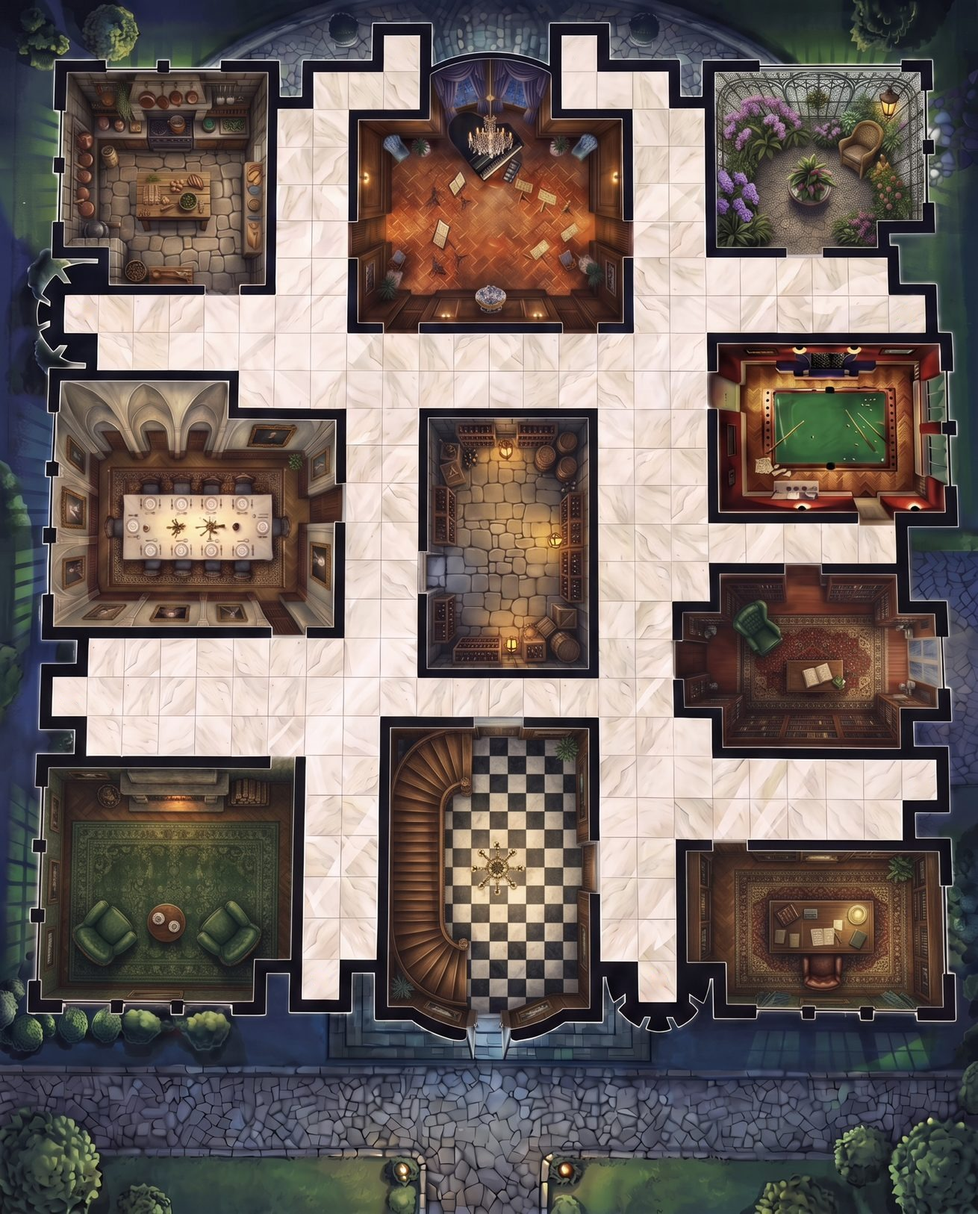
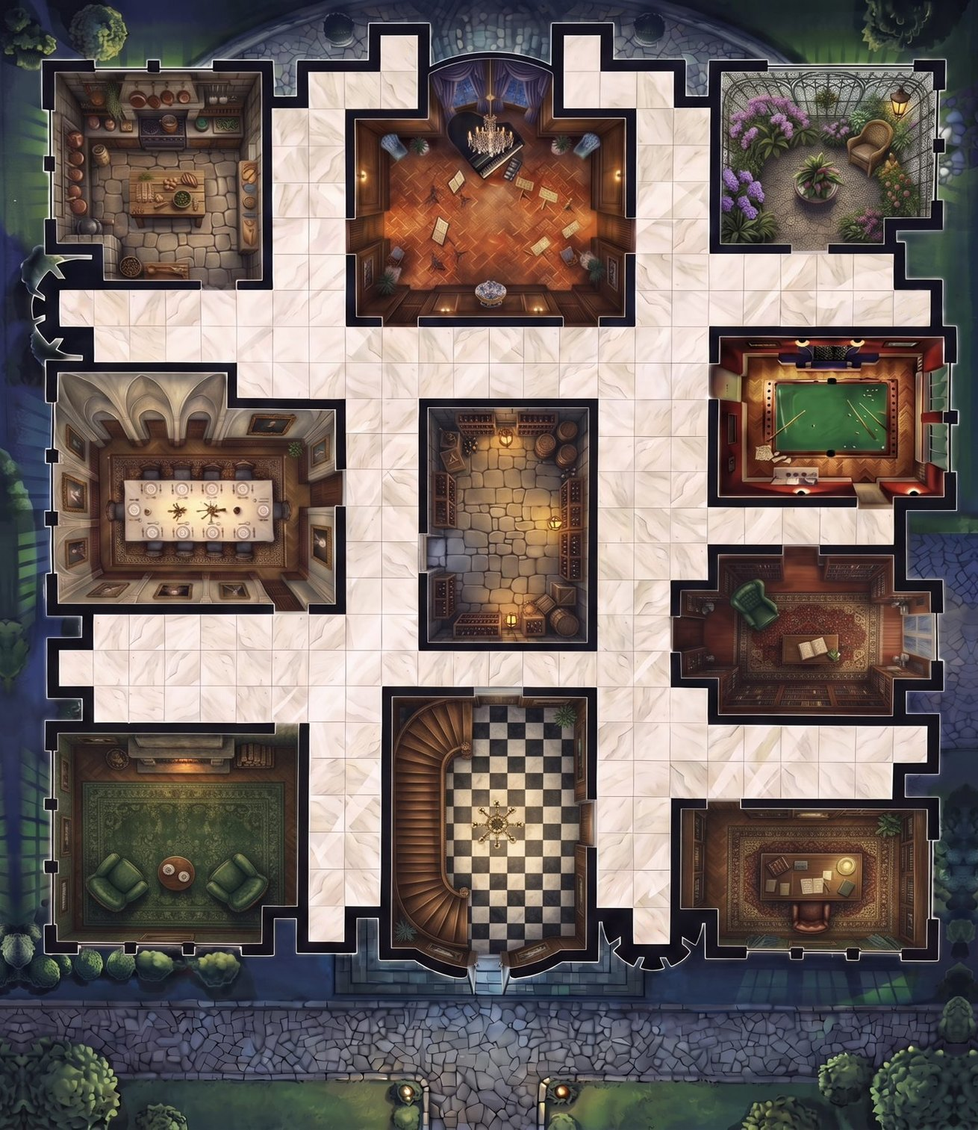
Add files via upload

diff --git a/src/components/game/MansionBoard.tsx b/src/components/game/MansionBoard.tsx
@@ -16,6 +16,7 @@ import { Camera, Crosshair, RotateCcw, RotateCw, X, ZoomIn, ZoomOut } from "luci
 import { portraitFor } from "@/lib/game/cast";
 import { portraitArt } from "@/lib/game/cards";
 import { charCutout } from "@/lib/game/scene-art";
+import { HOUSE_H } from "@/lib/game/house-data";
 
 /**
  * The digital board: the painted house, one fixed floor plan. The marble squares in the picture are the squares
@@ -25,7 +26,7 @@ import { charCutout } from "@/lib/game/scene-art";
  * Only the guests stand up: each one is a small round base with a cut-out figure on it, a little shadow, so they read as
  * 3D while standing perfectly upright. The whole house starts scaled to fit the space it is given. It never zooms or turns by
  * pinching or dragging: one camera button in the middle of the bottom bar opens a flat control strip: a thumb stick in
- * the middle that moves the view, turn left and right, and zoom. A Recenter button shows up only after the view has been moved. The house is always drawn flat, top down, at every angle, and it
+ * the middle that moves the view, turn left and right, and zoom. A Reset camera button (center and zoom all the way out) shows up whenever the camera is off its default view. The house is always drawn flat, top down, at every angle, and it
  * is fitted between the top bar and the bottom bar so the hidden rooms on the lawn are never covered. To move, tap anywhere near a lit square. Any square the roll can reach is a
  * destination, and a tap that lands close to one snaps to it. After walking into a room the steps left over can still
  * be used, by a door or by a secret passage, and the passage buttons at the bottom of the board say where each goes.
@@ -36,11 +37,14 @@ const BOARD_CSS = `
  box-shadow:inset 0 0 0 1px var(--j-ring,#9db4e640),0 8px 24px rgba(0,0,0,.45)}
 .dgb-view{position:absolute;inset:0;touch-action:manipulation;-webkit-user-select:none;user-select:none;-webkit-touch-callout:none;-webkit-tap-highlight-color:transparent}
 .dgb-world{position:absolute;left:0;top:0;transform-origin:0 0;transition:transform .32s ease}
+.dgb-world.live{transition:none!important;will-change:transform}
 .dgb-upright{transition:transform .32s ease}
 .dgb-tile{position:absolute;z-index:3;pointer-events:none;border-radius:4px;background:color-mix(in srgb,var(--tint) 80%,transparent);box-shadow:inset 0 0 0 2px color-mix(in srgb,var(--tint) 55%,#000),0 0 9px color-mix(in srgb,var(--tint) 70%,transparent)}
-.dgb-dock{pointer-events:auto;grid-column:1/-1;grid-row:1;height:64px;display:flex;align-items:center;justify-content:space-between;gap:6px;padding:0 8px;border-radius:16px;background:rgba(246,241,230,.97);border:1px solid #c4b396;box-shadow:0 4px 14px rgba(0,0,0,.6);color:#1c2430}
-.dgb-side{display:flex;align-items:center;gap:6px}
-.dgb-ctl{pointer-events:auto;display:flex;flex-direction:column;align-items:center;justify-content:center;gap:2px;width:46px;height:48px;padding:2px;border-radius:10px;background:#fff;color:#1c2430;border:1px solid #c4b396;font-size:9px;font-weight:700;line-height:1.05;text-align:center}
+.dgb-dock{pointer-events:auto;touch-action:none;grid-column:1/-1;grid-row:1;height:64px;display:flex;align-items:center;justify-content:space-between;gap:5px;padding:0 6px;border-radius:16px;background:rgba(246,241,230,.97);border:1px solid #c4b396;box-shadow:0 4px 14px rgba(0,0,0,.6);color:#1c2430}
+.dgb-side{display:flex;align-items:center;gap:5px}
+.dgb-ctl{pointer-events:auto;display:flex;flex-direction:column;align-items:center;justify-content:center;gap:1px;width:40px;height:46px;padding:2px;border-radius:10px;background:#fff;color:#1c2430;border:1px solid #c4b396;font-size:9px;font-weight:700;line-height:1.05;text-align:center}
+.dgb-ctl.reset{background:#2a1e0c;color:#fbe9b4;border-color:#f0cf7a}
+.dgb-ctl.reset:disabled{background:#d8d0bd;color:#7a715f;border-color:#c4b396}
 .dgb-stick{position:relative;flex:none;width:62px;height:62px;border-radius:50%;background:radial-gradient(#e9dfc8,#c9b999);border:2px solid #9b8760;touch-action:none;-webkit-user-select:none;user-select:none}
 .dgb-knob{position:absolute;left:50%;top:50%;width:28px;height:28px;margin:-14px 0 0 -14px;border-radius:50%;background:#2a1e0c;border:2px solid #f0cf7a;box-shadow:0 2px 5px rgba(0,0,0,.6)}
 .dgb-recenter{position:absolute;z-index:13;left:50%;bottom:76px;transform:translateX(-50%);pointer-events:auto;display:inline-flex;align-items:center;gap:6px;padding:7px 14px;border-radius:999px;background:#2a1e0c;color:#fbe9b4;border:2px solid #f0cf7a;font-size:12px;font-weight:800;box-shadow:0 4px 10px rgba(0,0,0,.55)}
@@ -113,10 +117,10 @@ const ZOOMS = [1, 1.5, 2.2, 3.2];
 const COS = [1, 0, -1, 0];
 const SIN = [0, 1, 0, -1];
 
-/** Where the hidden rooms are kept: two small plaques on the lawn below the house. Not part of the map. */
+/** Where the hidden rooms are kept: two small plaques on the lawn below the house, kept the same distance from the bottom edge of the picture. Not part of the map. */
 const POCKETS: Rect[] = [
-  { x: 70, y: 1950, w: 580, h: 180 },
-  { x: 1096, y: 1950, w: 580, h: 180 },
+  { x: 70, y: HOUSE_H - 218, w: 580, h: 180 },
+  { x: 1096, y: HOUSE_H - 218, w: 580, h: 180 },
 ];
 
 /** Seat order for guests who have not picked a character. */
@@ -291,18 +295,68 @@ export function MansionBoard({
   const offX = size.w / 2 + pan.x - scale * rotX(focus.x, focus.y);
   const offY = midY + pan.y - scale * rotY(focus.x, focus.y);
 
+  baseRef.current = { x: offX - pan.x, y: offY - pan.y };
+  tailRef.current = `rotate(${turns * 90}deg) scale(${scale})`;
+  limRef.current = (Math.max(worldW, worldH) * scale) / 2;
+
   const zoomTo = (next: number) => {
     const at = clamp(next, 0, ZOOMS.length - 1);
     setZoomAt(at);
     if (at === 0) setPan({ x: 0, y: 0 });
   };
-  // Thumb stick: while it is held away from the middle the view glides that way. Screen directions, whatever the turn.
+  // Thumb stick. While it is held the house is moved straight on the screen (no React re-render and no CSS
+  // transition per frame, which is what made the whole board shake), with the speed eased in and out. The new
+  // position is committed to state once the stick has come to rest.
   const stickVec = useRef({ x: 0, y: 0 });
   const stickBox = useRef<{ x: number; y: number } | null>(null);
-  const panLimit = useRef(0);
-  panLimit.current = (Math.max(worldW, worldH) * scale) / 2;
-  const [knob, setKnob] = useState({ x: 0, y: 0 });
+  const live = useRef({ active: false, raf: 0, last: 0, vx: 0, vy: 0, px: 0, py: 0 });
+  const baseRef = useRef({ x: 0, y: 0 });
+  const tailRef = useRef("");
+  const limRef = useRef(0);
+  const knobEl = useRef<HTMLSpanElement>(null);
+  const moveKnob = (x: number, y: number) => {
+    if (knobEl.current) knobEl.current.style.transform = `translate(${x}px, ${y}px)`;
+  };
+  const [dragging, setDragging] = useState(false);
   const STICK_R = 20;
+  const MAX_SPEED = 520; // screen pixels per second at full push
+  const applyLive = () => {
+    const L = live.current;
+    if (world.current) world.current.style.transform = `translate(${baseRef.current.x + L.px}px, ${baseRef.current.y + L.py}px) ${tailRef.current}`;
+  };
+  const runStick = () => {
+    const L = live.current;
+    if (L.raf) return;
+    L.last = performance.now();
+    const tick = (now: number) => {
+      const dt = Math.min(0.05, (now - L.last) / 1000);
+      L.last = now;
+      const v = stickVec.current;
+      const mag = Math.hypot(v.x, v.y);
+      const speed = mag > 0.12 ? MAX_SPEED * Math.pow((mag - 0.12) / 0.88, 1.6) : 0;
+      const tx = mag > 0 ? (v.x / mag) * speed : 0;
+      const ty = mag > 0 ? (v.y / mag) * speed : 0;
+      const k = 1 - Math.exp(-dt * 9);
+      L.vx += (tx - L.vx) * k;
+      L.vy += (ty - L.vy) * k;
+      const lim = limRef.current;
+      // Pushing the stick right moves the camera right, so the house slides left.
+      L.px = clamp(L.px - L.vx * dt, -lim, lim);
+      L.py = clamp(L.py - L.vy * dt, -lim, lim);
+      applyLive();
+      if (!L.active && Math.hypot(L.vx, L.vy) < 6) {
+        L.raf = 0;
+        L.vx = 0;
+        L.vy = 0;
+        world.current?.classList.remove("live");
+        setPan({ x: L.px, y: L.py });
+        setDragging(false);
+        return;
+      }
+      L.raf = window.requestAnimationFrame(tick);
+    };
+    L.raf = window.requestAnimationFrame(tick);
+  };
   const stickTo = (clientX: number, clientY: number) => {
     const c = stickBox.current;
     if (!c) return;
@@ -310,38 +364,48 @@ export function MansionBoard({
     const dy = clientY - c.y;
     const d = Math.hypot(dx, dy);
     const k = d > STICK_R ? STICK_R / d : 1;
-    setKnob({ x: dx * k, y: dy * k });
+    moveKnob(dx * k, dy * k);
     stickVec.current = { x: (dx * k) / STICK_R, y: (dy * k) / STICK_R };
   };
   const stickDown = (e: ReactPointerEvent<HTMLDivElement>) => {
+    e.preventDefault();
     const r = e.currentTarget.getBoundingClientRect();
     stickBox.current = { x: r.left + r.width / 2, y: r.top + r.height / 2 };
     e.currentTarget.setPointerCapture(e.pointerId);
+    const L = live.current;
+    L.active = true;
+    if (!L.raf) {
+      L.px = pan.x;
+      L.py = pan.y;
+    }
+    world.current?.classList.add("live");
+    setDragging(true);
     stickTo(e.clientX, e.clientY);
+    runStick();
   };
   const stickUp = () => {
     stickBox.current = null;
     stickVec.current = { x: 0, y: 0 };
-    setKnob({ x: 0, y: 0 });
+    live.current.active = false;
+    moveKnob(0, 0);
   };
-  useEffect(() => {
-    if (!camOpen) return;
-    let raf = 0;
-    const tick = () => {
-      const v = stickVec.current;
-      const mag = Math.hypot(v.x, v.y);
-      if (mag > 0.08) {
-        const speed = 10 * mag * mag;
-        const lim = panLimit.current;
-        // Pushing the stick right moves the camera right, so the house slides left.
-        setPan((p) => ({ x: clamp(p.x - (v.x / mag) * speed, -lim, lim), y: clamp(p.y - (v.y / mag) * speed, -lim, lim) }));
-      }
-      raf = window.requestAnimationFrame(tick);
-    };
-    raf = window.requestAnimationFrame(tick);
-    return () => window.cancelAnimationFrame(raf);
-  }, [camOpen]);
-  const moved = Math.abs(pan.x) > 2 || Math.abs(pan.y) > 2;
+  useEffect(
+    () => () => {
+      window.cancelAnimationFrame(live.current.raf);
+    },
+    [],
+  );
+  /** Put the camera back: centered on the house and zoomed all the way out. The turn is left as it is. */
+  const resetCamera = () => {
+    const L = live.current;
+    L.px = 0;
+    L.py = 0;
+    L.vx = 0;
+    L.vy = 0;
+    setPan({ x: 0, y: 0 });
+    setZoomAt(0);
+  };
+  const showReset = zoomed || dragging || Math.abs(pan.x) > 2 || Math.abs(pan.y) > 2;
   const labelPx = clamp(10.5, 9, 14) * inv;
   const pieceH = clamp(TILE * scale * 1.7, 30, 84) * inv;
   const pieceBaseW = pieceH * 0.4;
@@ -647,10 +711,10 @@ export function MansionBoard({
         ) : null}
       </div>
 
-      {moved ? (
-        <button type="button" className="dgb-recenter" onClick={() => setPan({ x: 0, y: 0 })} aria-label="Recenter the view" title="Recenter the view">
+      {showReset && !camOpen ? (
+        <button type="button" className="dgb-recenter" onClick={resetCamera} aria-label="Reset the camera" title="Reset the camera">
           <Crosshair size={16} />
-          Recenter
+          Reset camera
         </button>
       ) : null}
 
@@ -660,11 +724,11 @@ export function MansionBoard({
             <div className="dgb-side">
               <button type="button" className="dgb-ctl" onClick={() => setTurns((n) => n - 1)} aria-label="Turn the house left" title="Turn the house left">
                 <RotateCcw size={18} />
-                Turn left
+                Left
               </button>
-              <button type="button" className="dgb-ctl" onClick={() => zoomTo(zoomAt - 1)} disabled={zoomAt <= 0} aria-label="Zoom out" title="Zoom out">
-                <ZoomOut size={18} />
-                Zoom out
+              <button type="button" className="dgb-ctl" onClick={() => setTurns((n) => n + 1)} aria-label="Turn the house right" title="Turn the house right">
+                <RotateCw size={18} />
+                Right
               </button>
             </div>
             <div
@@ -676,16 +740,20 @@ export function MansionBoard({
               onPointerUp={stickUp}
               onPointerCancel={stickUp}
             >
-              <span className="dgb-knob" style={{ transform: `translate(${knob.x}px, ${knob.y}px)` }} />
+              <span ref={knobEl} className="dgb-knob" />
             </div>
             <div className="dgb-side">
+              <button type="button" className="dgb-ctl" onClick={() => zoomTo(zoomAt - 1)} disabled={zoomAt <= 0} aria-label="Zoom out" title="Zoom out">
+                <ZoomOut size={18} />
+                Out
+              </button>
               <button type="button" className="dgb-ctl" onClick={() => zoomTo(zoomAt + 1)} disabled={zoomAt >= ZOOMS.length - 1} aria-label="Zoom in" title="Zoom in">
                 <ZoomIn size={18} />
-                Zoom in
+                In
               </button>
-              <button type="button" className="dgb-ctl" onClick={() => setTurns((n) => n + 1)} aria-label="Turn the house right" title="Turn the house right">
-                <RotateCw size={18} />
-                Turn right
+              <button type="button" className="dgb-ctl reset" onClick={resetCamera} disabled={!showReset} aria-label="Reset the camera: center and zoom all the way out" title="Reset the camera">
+                <Crosshair size={18} />
+                Reset
               </button>
               <button type="button" className="dgb-ctl" onClick={() => setCamOpen(false)} aria-label="Close camera controls" title="Close camera controls">
                 <X size={18} />

diff --git a/src/lib/game/house-data.ts b/src/lib/game/house-data.ts
@@ -1,8 +1,8 @@
-/* Generated from the painted house image (public/board/house.jpg, drawn at 1746 x 2168). Tiles are the marble squares in the picture, measured in image pixels. Do not edit by hand. */
+/* Generated from the painted house image (public/board/house.jpg, drawn at 1746 x 2017, flattened: the original photo-like keystone was straightened so every square is the same size from top to bottom). Tiles are the marble squares in the picture, measured in image pixels. Do not edit by hand. */
 export const HOUSE_W = 1746;
-export const HOUSE_H = 2168;
+export const HOUSE_H = 2017;
 /** [row, col, x, y, w, h] for every walkable marble square. The tile number is its place in this list. */
-export const HOUSE_TILES: ReadonlyArray<readonly [number, number, number, number, number, number]> = [[0,0,686,60,64,67],[0,1,1003,60,63,67],[1,0,560,127,63,68],[1,1,623,127,63,68],[1,2,686,127,63,68],[1,3,1003,127,64,68],[1,4,1067,127,64,68],[1,5,1130,127,64,68],[2,0,495,195,64,66],[2,1,558,195,64,66],[2,2,1130,195,64,66],[2,3,1194,195,64,66],[3,0,495,261,64,68],[3,1,558,261,64,68],[3,2,1130,261,64,68],[3,3,1194,261,64,68],[4,0,494,329,64,65],[4,1,558,329,64,65],[4,2,1131,329,64,65],[4,3,1195,329,64,65],[5,0,493,394,64,66],[5,1,557,394,64,66],[5,2,1132,394,64,66],[5,3,1196,394,64,66],[6,0,492,460,64,68],[6,1,556,460,64,68],[6,2,1131,460,65,68],[6,3,1196,460,65,68],[6,4,1261,460,65,68],[6,5,1326,460,65,68],[6,6,1390,460,65,68],[6,7,1455,460,65,68],[6,8,1520,460,65,68],[7,0,115,528,63,65],[7,1,178,528,63,65],[7,2,241,528,63,65],[7,3,304,528,63,65],[7,4,368,528,63,65],[7,5,431,528,63,65],[7,6,494,528,63,65],[7,7,557,528,63,65],[7,8,1132,528,65,65],[7,9,1197,528,65,65],[7,10,1262,528,65,65],[7,11,1327,528,65,65],[7,12,1392,528,65,65],[7,13,1457,528,65,65],[7,14,1522,528,65,65],[7,15,1587,528,65,65],[8,0,174,593,64,69],[8,1,238,593,64,69],[8,2,302,593,64,69],[8,3,366,593,64,69],[8,4,430,593,64,69],[8,5,494,593,64,69],[8,6,558,593,64,69],[8,7,622,593,64,69],[8,8,686,593,64,69],[8,9,750,593,64,69],[8,10,814,593,64,69],[8,11,878,593,64,69],[8,12,942,593,64,69],[8,13,1006,593,64,69],[8,14,1070,593,64,69],[8,15,1134,593,64,69],[8,16,1198,593,64,69],[9,0,426,662,64,69],[9,1,490,662,64,69],[9,2,555,662,64,69],[9,3,619,662,64,69],[9,4,683,662,64,69],[9,5,748,662,64,69],[9,6,812,662,64,69],[9,7,876,662,64,69],[9,8,940,662,64,69],[9,9,1005,662,64,69],[9,10,1069,662,64,69],[9,11,1133,662,64,69],[9,12,1198,662,64,69],[10,0,618,731,65,69],[10,1,683,731,65,69],[10,2,1068,731,65,69],[10,3,1133,731,65,69],[10,4,1198,731,65,69],[11,0,618,800,64,67],[11,1,682,800,64,67],[11,2,1068,800,65,67],[11,3,1133,800,65,67],[11,4,1198,800,65,67],[12,0,618,867,64,69],[12,1,682,867,64,69],[12,2,1068,867,65,69],[12,3,1133,867,65,69],[12,4,1199,867,65,69],[13,0,617,936,64,66],[13,1,682,936,64,66],[13,2,1068,936,66,66],[13,3,1134,936,66,66],[13,4,1201,936,66,66],[13,5,1267,936,66,66],[13,6,1334,936,66,66],[13,7,1400,936,66,66],[13,8,1466,936,66,66],[13,9,1533,936,66,66],[14,0,616,1002,66,71],[14,1,682,1002,66,71],[14,2,1069,1002,66,71],[14,3,1135,1002,66,71],[14,4,1200,1002,66,71],[15,0,616,1073,64,66],[15,1,680,1073,64,66],[15,2,1069,1073,66,66],[15,3,1134,1073,66,66],[16,0,158,1139,65,70],[16,1,223,1139,65,70],[16,2,288,1139,65,70],[16,3,354,1139,65,70],[16,4,419,1139,65,70],[16,5,484,1139,65,70],[16,6,549,1139,65,70],[16,7,615,1139,65,70],[16,8,680,1139,65,70],[16,9,1070,1139,66,70],[16,10,1136,1139,66,70],[17,0,94,1209,65,69],[17,1,159,1209,65,69],[17,2,224,1209,65,69],[17,3,290,1209,65,69],[17,4,355,1209,65,69],[17,5,420,1209,65,69],[17,6,485,1209,65,69],[17,7,550,1209,65,69],[17,8,615,1209,65,69],[17,9,681,1209,65,69],[17,10,746,1209,65,69],[17,11,811,1209,65,69],[17,12,876,1209,65,69],[17,13,941,1209,65,69],[17,14,1006,1209,65,69],[17,15,1072,1209,65,69],[17,16,1137,1209,65,69],[18,0,155,1278,65,70],[18,1,220,1278,65,70],[18,2,286,1278,65,70],[18,3,351,1278,65,70],[18,4,416,1278,65,70],[18,5,482,1278,65,70],[18,6,547,1278,65,70],[18,7,613,1278,65,70],[18,8,1070,1278,67,70],[18,9,1137,1278,67,70],[18,10,1204,1278,67,70],[19,0,546,1348,66,79],[19,1,612,1348,66,79],[19,2,1075,1348,66,79],[19,3,1141,1348,66,79],[19,4,1208,1348,66,79],[19,5,1274,1348,66,79],[19,6,1340,1348,66,79],[19,7,1407,1348,66,79],[19,8,1473,1348,66,79],[19,9,1539,1348,66,79],[19,10,1606,1348,66,79],[20,0,544,1427,66,68],[20,1,610,1427,66,68],[20,2,1070,1427,68,68],[20,3,1138,1427,68,68],[20,4,1205,1427,68,68],[20,5,1273,1427,68,68],[20,6,1340,1427,68,68],[20,7,1408,1427,68,68],[20,8,1476,1427,68,68],[20,9,1543,1427,68,68],[21,0,543,1495,66,70],[21,1,609,1495,66,70],[21,2,1068,1495,69,70],[21,3,1137,1495,69,70],[22,0,541,1565,66,74],[22,1,608,1565,66,74],[22,2,1072,1565,68,74],[22,3,1140,1565,68,74],[23,0,540,1639,66,77],[23,1,606,1639,66,77],[23,2,1072,1639,68,77],[23,3,1140,1639,68,77],[24,0,540,1716,65,69],[24,1,1140,1716,68,69]];
+export const HOUSE_TILES: ReadonlyArray<readonly [number, number, number, number, number, number]> = [[0,0,680,60,66,67],[0,1,1007,60,65,67],[1,0,551,127,65,67],[1,1,616,127,65,67],[1,2,681,127,65,67],[1,3,1007,127,66,67],[1,4,1072,127,66,67],[1,5,1137,127,66,67],[2,0,485,194,66,65],[2,1,550,194,66,65],[2,2,1136,194,66,65],[2,3,1202,194,66,65],[3,0,487,259,65,67],[3,1,551,259,65,67],[3,2,1136,259,65,67],[3,3,1201,259,65,67],[4,0,487,326,65,63],[4,1,552,326,65,63],[4,2,1136,326,65,63],[4,3,1201,326,65,63],[5,0,487,389,65,64],[5,1,552,389,65,64],[5,2,1136,389,65,64],[5,3,1201,389,65,64],[6,0,487,453,65,66],[6,1,551,453,65,66],[6,2,1135,453,66,66],[6,3,1201,453,66,66],[6,4,1267,453,66,66],[6,5,1332,453,66,66],[6,6,1397,453,66,66],[6,7,1463,453,66,66],[6,8,1529,453,66,66],[7,0,106,519,64,63],[7,1,170,519,64,63],[7,2,234,519,64,63],[7,3,297,519,64,63],[7,4,362,519,64,63],[7,5,426,519,64,63],[7,6,490,519,64,63],[7,7,553,519,64,63],[7,8,1135,519,66,63],[7,9,1201,519,66,63],[7,10,1266,519,66,63],[7,11,1332,519,66,63],[7,12,1398,519,66,63],[7,13,1464,519,66,63],[7,14,1529,519,66,63],[7,15,1595,519,66,63],[8,0,168,581,65,66],[8,1,232,581,65,66],[8,2,297,581,65,66],[8,3,362,581,65,66],[8,4,426,581,65,66],[8,5,491,581,65,66],[8,6,555,581,65,66],[8,7,620,581,65,66],[8,8,684,581,65,66],[8,9,749,581,65,66],[8,10,813,581,65,66],[8,11,878,581,65,66],[8,12,943,581,65,66],[8,13,1007,581,65,66],[8,14,1072,581,65,66],[8,15,1136,581,65,66],[8,16,1201,581,65,66],[9,0,423,647,64,66],[9,1,488,647,64,66],[9,2,553,647,64,66],[9,3,617,647,64,66],[9,4,682,647,64,66],[9,5,747,647,64,66],[9,6,812,647,64,66],[9,7,876,647,64,66],[9,8,940,647,64,66],[9,9,1006,647,64,66],[9,10,1070,647,64,66],[9,11,1135,647,64,66],[9,12,1200,647,64,66],[10,0,617,713,65,65],[10,1,682,713,65,65],[10,2,1069,713,65,65],[10,3,1134,713,65,65],[10,4,1199,713,65,65],[11,0,618,779,64,63],[11,1,682,779,64,63],[11,2,1068,779,65,63],[11,3,1133,779,65,63],[11,4,1198,779,65,63],[12,0,619,842,64,65],[12,1,682,842,64,65],[12,2,1068,842,65,65],[12,3,1132,842,65,65],[12,4,1198,842,65,65],[13,0,618,907,64,62],[13,1,683,907,64,62],[13,2,1067,907,66,62],[13,3,1133,907,66,62],[13,4,1199,907,66,62],[13,5,1265,907,66,62],[13,6,1332,907,66,62],[13,7,1397,907,66,62],[13,8,1463,907,66,62],[13,9,1530,907,66,62],[14,0,618,969,66,66],[14,1,683,969,66,66],[14,2,1068,969,66,66],[14,3,1133,969,66,66],[14,4,1198,969,66,66],[15,0,619,1035,63,61],[15,1,682,1035,63,61],[15,2,1067,1035,65,61],[15,3,1131,1035,65,61],[16,0,167,1096,64,65],[16,1,231,1096,64,65],[16,2,295,1096,64,65],[16,3,361,1096,64,65],[16,4,425,1096,64,65],[16,5,489,1096,64,65],[16,6,553,1096,64,65],[16,7,618,1096,64,65],[16,8,682,1096,64,65],[16,9,1067,1096,65,65],[16,10,1133,1096,65,65],[17,0,106,1161,64,63],[17,1,170,1161,64,63],[17,2,234,1161,64,63],[17,3,299,1161,64,63],[17,4,363,1161,64,63],[17,5,427,1161,64,63],[17,6,491,1161,64,63],[17,7,555,1161,64,63],[17,8,619,1161,64,63],[17,9,684,1161,64,63],[17,10,748,1161,64,63],[17,11,812,1161,64,63],[17,12,876,1161,64,63],[17,13,940,1161,64,63],[17,14,1004,1161,64,63],[17,15,1069,1161,64,63],[17,16,1133,1161,64,63],[18,0,168,1224,64,64],[18,1,232,1224,64,64],[18,2,297,1224,64,64],[18,3,360,1224,64,64],[18,4,424,1224,64,64],[18,5,489,1224,64,64],[18,6,553,1224,64,64],[18,7,618,1224,64,64],[18,8,1066,1224,66,64],[18,9,1132,1224,66,64],[18,10,1198,1224,66,64],[19,0,553,1288,65,72],[19,1,617,1288,65,72],[19,2,1071,1288,65,72],[19,3,1135,1288,65,72],[19,4,1201,1288,65,72],[19,5,1266,1288,65,72],[19,6,1330,1288,65,72],[19,7,1396,1288,65,72],[19,8,1460,1288,65,72],[19,9,1525,1288,65,72],[19,10,1591,1288,65,72],[20,0,552,1360,64,62],[20,1,616,1360,64,62],[20,2,1065,1360,66,62],[20,3,1132,1360,66,62],[20,4,1197,1360,66,62],[20,5,1263,1360,66,62],[20,6,1329,1360,66,62],[20,7,1395,1360,66,62],[20,8,1462,1360,66,62],[20,9,1527,1360,66,62],[21,0,552,1422,64,63],[21,1,616,1422,64,63],[21,2,1063,1422,67,63],[21,3,1130,1422,67,63],[22,0,551,1485,64,66],[22,1,616,1485,64,66],[22,2,1066,1485,66,66],[22,3,1132,1485,66,66],[23,0,551,1551,64,69],[23,1,615,1551,64,69],[23,2,1066,1551,66,69],[23,3,1131,1551,66,69],[24,0,552,1620,63,61],[24,1,1131,1620,66,61]];
 /** Tile numbers each tile touches. */
 export const HOUSE_LINKS: ReadonlyArray<ReadonlyArray<number>> = [[4],[5],[3,9],[2,4],[0,3],[1,6],[5,7],[6,10],[9,12],[2,8,13],[7,11,14],[10,15],[8,13,16],[9,12,17],[10,15,18],[11,14,19],[12,17,20],[13,16,21],[14,19,22],[15,18,23],[16,21,24],[17,20,25],[18,23,26],[19,22,27],[20,25,39],[21,24,40],[22,27,41],[23,26,28,42],[27,29,43],[28,30,44],[29,31,45],[30,32,46],[31,47],[34],[33,35,49],[34,36,50],[35,37,51],[36,38,52],[37,39,53],[24,38,40,54],[25,39,55],[26,42,64],[27,41,43,65],[28,42,44],[29,43,45],[30,44,46],[31,45,47],[32,46,48],[47],[34,50],[35,49,51],[36,50,52],[37,51,53],[38,52,54,66],[39,53,55,67],[40,54,56,68],[55,57,69],[56,58,70],[57,59,71],[58,60,72],[59,61,73],[60,62,74],[61,63,75],[62,64,76],[41,63,65,77],[42,64,78],[53,67],[54,66,68],[55,67,69],[56,68,70,79],[57,69,71,80],[58,70,72],[59,71,73],[60,72,74],[61,73,75],[62,74,76],[63,75,77,81],[64,76,78,82],[65,77,83],[69,80,84],[70,79,85],[76,82,86],[77,81,83,87],[78,82,88],[79,85,89],[80,84,90],[81,87,91],[82,86,88,92],[83,87,93],[84,90,94],[85,89,95],[86,92,96],[87,91,93,97],[88,92,98],[89,95,104],[90,94,105],[91,97,106],[92,96,98,107],[93,97,99,108],[98,100],[99,101],[100,102],[101,103],[102],[94,105,109],[95,104,110],[96,107,111],[97,106,108,112],[98,107],[104,110,120],[105,109,121],[106,112,122],[107,111,123],[114,125],[113,115,126],[114,116,127],[115,117,128],[116,118,129],[117,119,130],[118,120,131],[109,119,121,132],[110,120,133],[111,123,139],[112,122,140],[125],[113,124,126,141],[114,125,127,142],[115,126,128,143],[116,127,129,144],[117,128,130,145],[118,129,131,146],[119,130,132,147],[120,131,133,148],[121,132,134],[133,135],[134,136],[135,137],[136,138],[137,139],[122,138,140,149],[123,139,150],[125,142],[126,141,143],[127,142,144],[128,143,145],[129,144,146],[130,145,147],[131,146,148,152],[132,147,153],[139,150,154],[140,149,151,155],[150,156],[147,153,163],[148,152,164],[149,155,165],[150,154,156,166],[151,155,157,167],[156,158,168],[157,159,169],[158,160,170],[159,161,171],[160,162,172],[161],[152,164,173],[153,163,174],[154,166,175],[155,165,167,176],[156,166,168],[157,167,169],[158,168,170],[159,169,171],[160,170,172],[161,171],[163,174,177],[164,173,178],[165,176,179],[166,175,180],[173,178,181],[174,177,182],[175,180,183],[176,179,184],[177,182,185],[178,181],[179,184],[180,183,186],[181],[184]];
 /** The eight blue-circle squares. Guests start on these, in a random order. */
@@ -10,4 +10,4 @@ export const HOUSE_SPAWNS: ReadonlyArray<number> = [0, 1, 33, 48, 124, 162, 185,
 /** A plain corridor square near the middle of the house, for "lost in the hall". */
 export const HOUSE_CENTER = 59;
 /** The ten rooms of the house: where each one is on the picture (x, y, w, h in image pixels) and the tiles whose edge is its doorway. */
-export const HOUSE_ROOMS: ReadonlyArray<{ id: string; name: string; rect: readonly [number, number, number, number]; doors: ReadonlyArray<number> }> = [{"id":"ballroom","name":"Ballroom","rect":[615,70,510,530],"doors":[21,22,62]},{"id":"billiard-room","name":"Billiard Room","rect":[1260,600,435,335],"doors":[78,103]},{"id":"cellar","name":"Cellar","rect":[740,720,325,485],"doors":[105]},{"id":"conservatory","name":"Conservatory","rect":[1265,85,390,370],"doors":[30]},{"id":"dining-room","name":"Dining Room","rect":[85,655,535,480],"doors":[118,89]},{"id":"grand-hall","name":"Hall","rect":[675,1270,390,585],"doors":[135,136,175]},{"id":"kitchen","name":"Kitchen","rect":[100,105,390,420],"doors":[37]},{"id":"library","name":"Library","rect":[1190,1000,485,330],"doors":[123,101]},{"id":"lounge","name":"Lounge","rect":[55,1340,475,465],"doors":[146]},{"id":"study","name":"Study","rect":[1210,1515,485,300],"doors":[168]}];
+export const HOUSE_ROOMS: ReadonlyArray<{ id: string; name: string; rect: readonly [number, number, number, number]; doors: ReadonlyArray<number> }> = [{"id":"ballroom","name":"Ballroom","rect":[610,70,521,518],"doors":[21,22,62]},{"id":"billiard-room","name":"Billiard Room","rect":[1261,588,436,318],"doors":[78,103]},{"id":"cellar","name":"Cellar","rect":[741,703,324,454],"doors":[105]},{"id":"conservatory","name":"Conservatory","rect":[1274,85,399,363],"doors":[30]},{"id":"dining-room","name":"Dining Room","rect":[86,641,534,452],"doors":[118,89]},{"id":"grand-hall","name":"Hall","rect":[680,1217,379,527],"doors":[135,136,175]},{"id":"kitchen","name":"Kitchen","rect":[83,105,398,411],"doors":[37]},{"id":"library","name":"Library","rect":[1186,967,479,305],"doors":[123,101]},{"id":"lounge","name":"Lounge","rect":[78,1281,462,418],"doors":[146]},{"id":"study","name":"Study","rect":[1199,1440,470,268],"doors":[168]}];

diff --git a/src/components/game/Briefcase.tsx b/src/components/game/Briefcase.tsx
@@ -1,5 +1,5 @@
 import { useEffect, useRef, useState } from "react";
-import { canAsk, repeatBlocked, currentPlayer, turnActorId, useActorId, useGame, useMyHand } from "@/lib/game/store";
+import { accuseOpen, canAsk, repeatBlocked, currentPlayer, turnActorId, useActorId, useGame, useMyHand } from "@/lib/game/store";
 import { movementTotal, blockingPlayerIds } from "@/lib/game/engine";
 import { Button } from "@/components/ui/button";
 import { CardFace } from "./CardFace";
@@ -196,7 +196,7 @@ function BriefcaseTable() {
     // On the digital board a guest standing in a room may suggest while steps are still left, so the move phase counts too.
     const mayAct = state.phase === "action" || (state.phase === "move" && state.settings.table === "board");
     if (state.phase === "question" || !mayAct || !mine) setSuggest(false);
-    if (state.phase !== "action" || !mine) setAccuse(false);
+    if (!accuseOpen(state) || !mine) setAccuse(false);
     if (!mayAct || !mine) setMovesOpen(false);
     if (state.phase === "question" || state.phase === "event" || state.phase === "roll") setLifted(null);
   }, [state, actor]);
@@ -372,7 +372,8 @@ function BriefcaseTable() {
         : myTurn
           ? "Your turn"
           : `${cur?.name ?? "Someone"}'s turn`;
-  const canMoveMenu = myTurn && (state.phase === "action" || (state.phase === "move" && canAsk(state, actor)));
+  const inARoom = state.players.find((p) => p.id === actor)?.position.kind === "room";
+  const canMoveMenu = myTurn && (state.phase === "action" || (state.phase === "move" && (canAsk(state, actor) || inARoom)));
 
   // Digital board: the house fills the screen. The turn info sits above it and the hand below it (beside it when
   // the phone is on its side). Every prompt (roll, powers, questions, the journal) still opens over the top.
@@ -620,7 +621,7 @@ function BriefcaseTable() {
                   You already made a suggestion in this room. Leave and go to a different room to suggest again.
                 </p>
               ) : null}
-              {state.phase === "action" && (state.actionsLeft ?? 1) > 0 && !influenced ? (
+              {accuseOpen(state) && (state.actionsLeft ?? 1) > 0 && !influenced ? (
                 <Button
                   size="lg"
                   variant="outline"

diff --git a/src/lib/game/engine.ts b/src/lib/game/engine.ts
@@ -1390,7 +1390,7 @@ export function setNaming(state: GameState, playerId: string, pick): GameState {
 			naming: null
 		};
 	}
-	if (state.phase !== "action") return state;
+	if (!accuseOpen(state)) return state;
 	if ((state.actionsLeft ?? 1) <= 0) return state;
 	const cur = currentPlayer(state);
 	if (cur && (state.influences ?? []).some((item) => item.victimId === cur.id)) return state;
@@ -1435,9 +1435,13 @@ export function setSuggesting(state: GameState, playerId: string, pick: { suspec
 	if (prev && prev.playerId === next.playerId && prev.suspectId === next.suspectId && prev.roomId === next.roomId && prev.weaponId === next.weaponId && prev.timeId === next.timeId) return state;
 	return { ...state, suggesting: next };
 }
+/** Solve the Case is open in the action phase, and on the digital board also while a guest still has steps left to walk (for example from inside a room). */
+export function accuseOpen(state: GameState): boolean {
+	return state.phase === "action" || (state.phase === "move" && state.settings?.table === "board");
+}
 export function makeAccusation(state: GameState, playerId: string, pick, secrets: Secrets): { state: GameState; secrets: Secrets } {
 	const held = { state, secrets };
-	if (state.phase !== "action") return held;
+	if (!accuseOpen(state)) return held;
 	if ((state.actionsLeft ?? 1) <= 0) return held;
 	const cur = currentPlayer(state);
 	if (cur && (state.influences ?? []).some((i) => i.victimId === cur.id)) return held;

diff --git a/src/components/game/QuestionPanel.tsx b/src/components/game/QuestionPanel.tsx
@@ -1,6 +1,6 @@
 import { cardsByCategory } from "@/lib/game/cards";
 import { sfxSolveStart } from "@/lib/game/sfx";
-import { canAsk, currentPlayer, turnActorId, useActorId, useGame, useMyHand, useMyNotes } from "@/lib/game/store";
+import { accuseOpen, canAsk, currentPlayer, turnActorId, useActorId, useGame, useMyHand, useMyNotes } from "@/lib/game/store";
 import type { CardDef, CategoryId, GameState, PlayerNotes, SheetMark } from "@/lib/game/types";
 import { Button } from "@/components/ui/button";
 import { CardFace } from "./CardFace";
@@ -686,7 +686,7 @@ export function AccusationPanel({ startOpen = false, fit = false }: { startOpen?
   const cur = currentPlayer(state);
   if (cur?.id !== actor && turnActorId(state) !== actor) return null;
   if ((state.influences ?? []).some((i) => i.victimId === cur?.id)) return null;
-  if (state.phase !== "action") return null;
+  if (!accuseOpen(state)) return null;
   const steps: CategoryId[] = state.settings.timeOfDayEnabled
     ? ["suspect", "weapon", "room", "time"]
     : ["suspect", "weapon", "room"];

diff --git a/src/lib/game/store.ts b/src/lib/game/store.ts
@@ -8,6 +8,7 @@ import {
   setClassicNames as applyClassicNamesToTable,
   canAsk,
   repeatBlocked,
+  accuseOpen,
   createLobby,
   currentPlayer,
   dealAndStart,
@@ -38,7 +39,7 @@ import { NPC_ID, SAVE_VERSION } from "@/lib/game/types";
 import { BOARD_MAX_PLAYERS, HIDDEN_ROOM_SUGGESTIONS, MAP_ROOM_IDS, hiddenRoomsOf, isLegalPos, layoutFor, resolvePassages } from "@/lib/game/board";
 import { uid } from "@/lib/utils";
 
-export { canAsk, repeatBlocked, currentPlayer, turnActorId };
+export { canAsk, repeatBlocked, accuseOpen, currentPlayer, turnActorId };
 export type { GameState };
 
 export type OnlineIntent = { kind: string; payload?: Record<string, unknown> };
